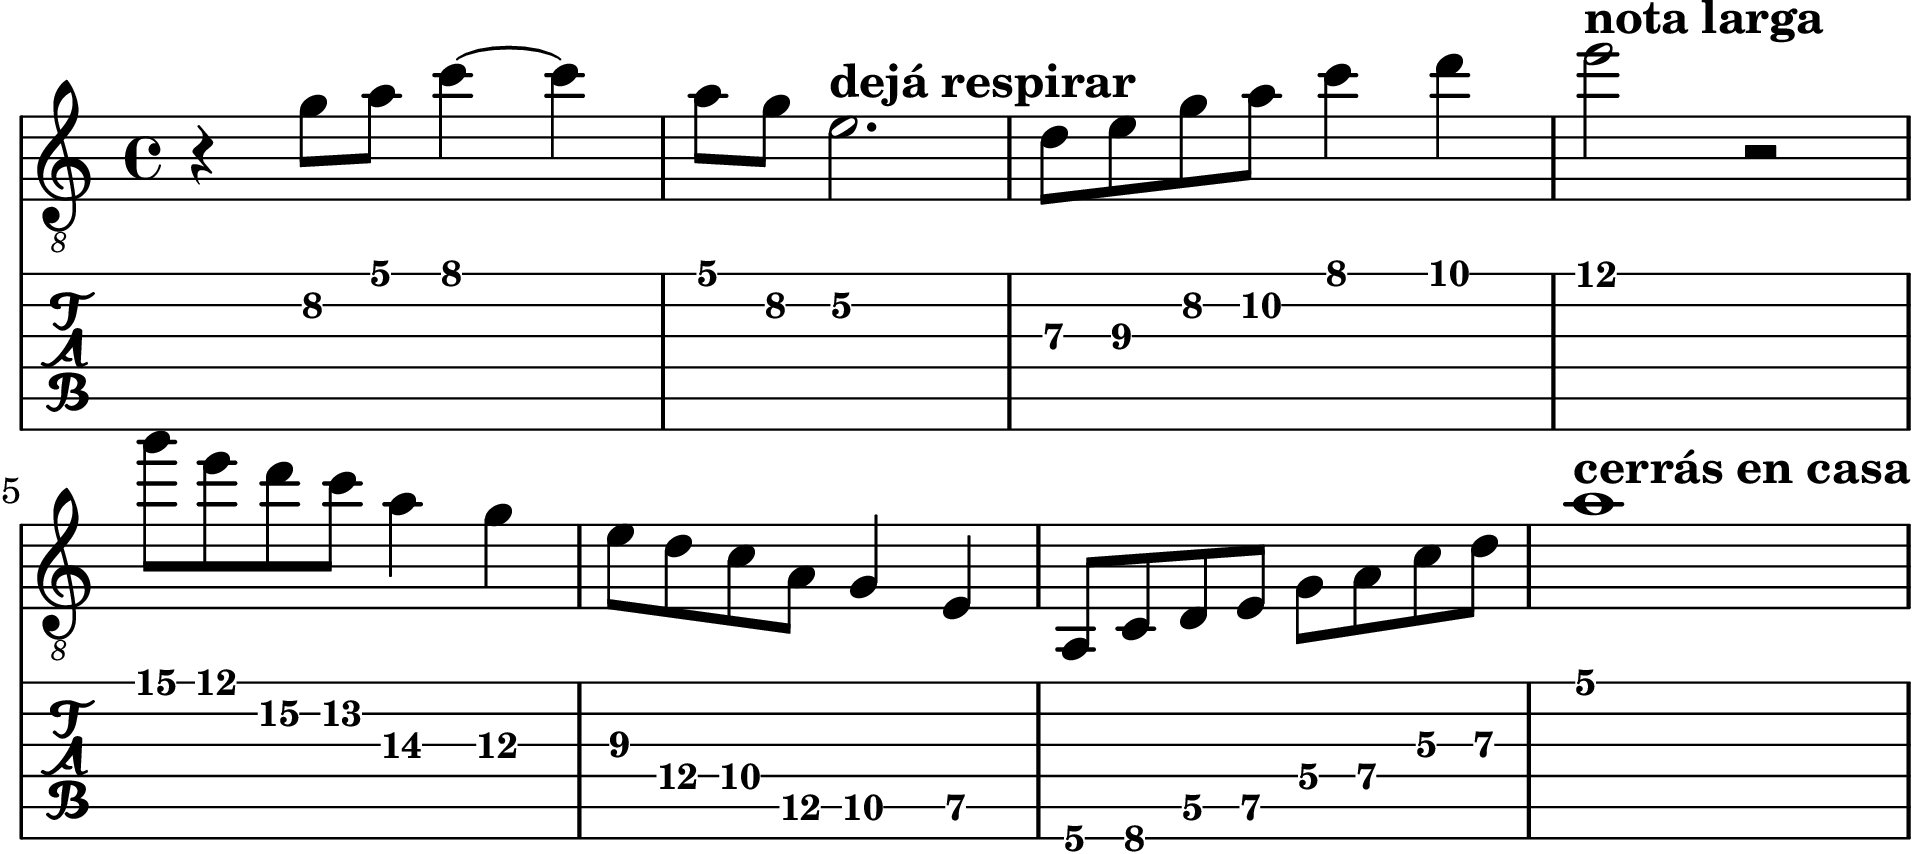
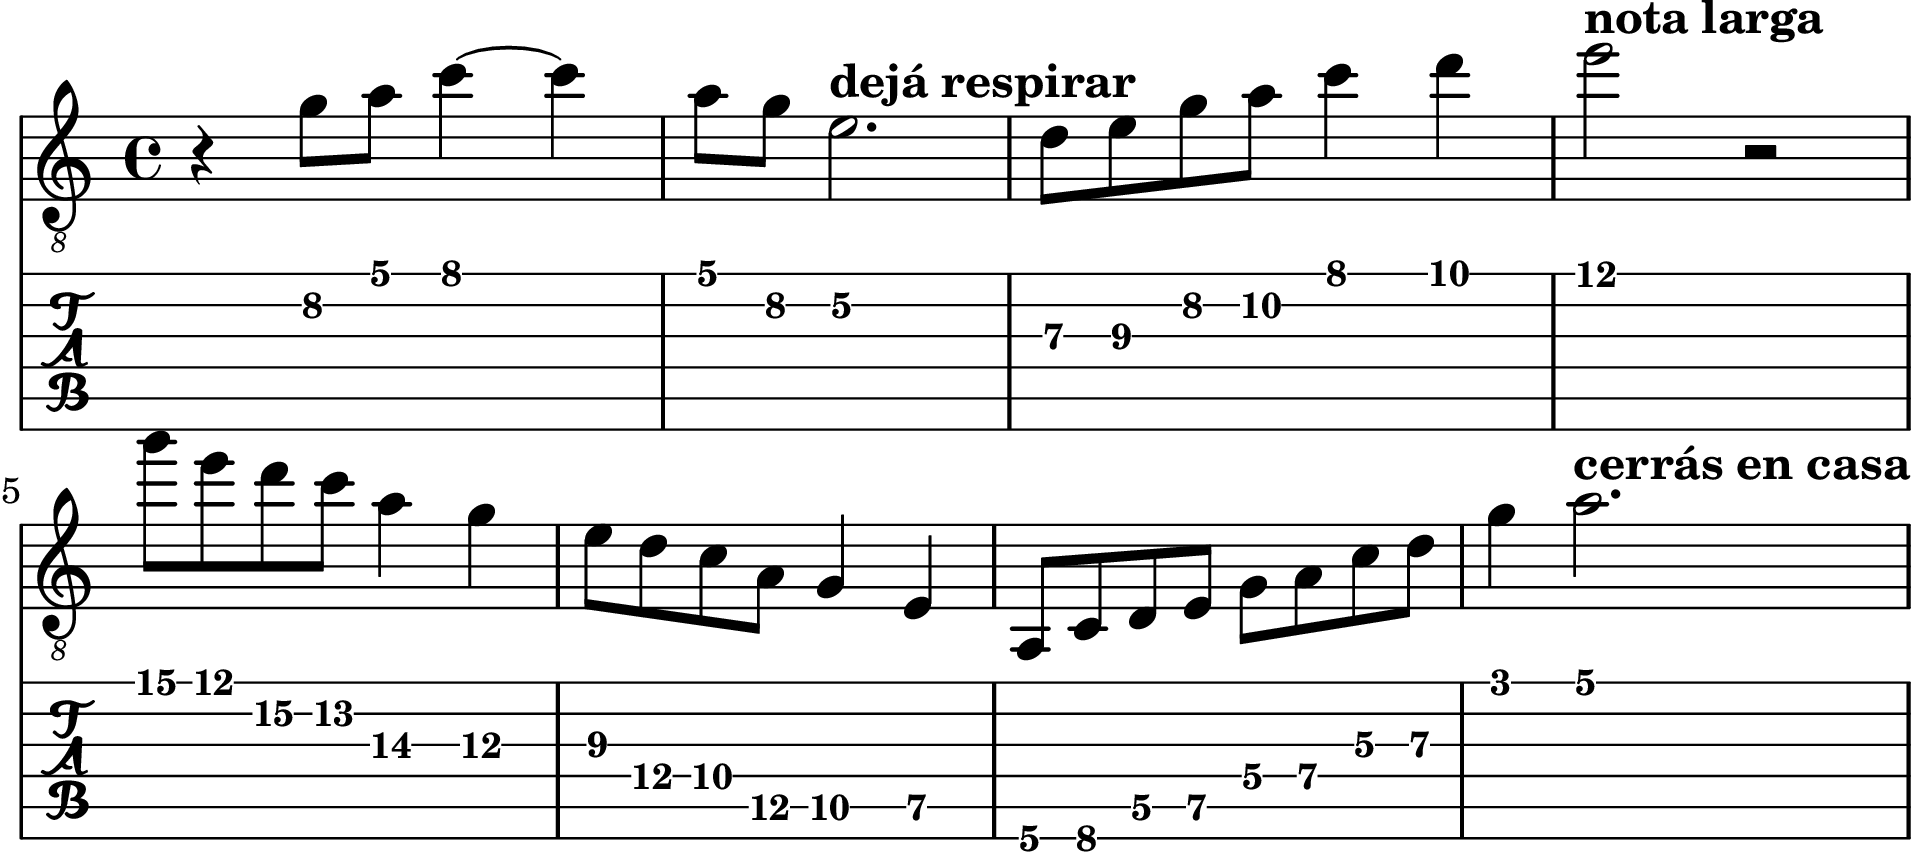
Hito 1: el solo final (ej. 16) no probaba realmente la caja 5 - corregido
Feli reviso el cuadernillo 1 y detecto que el solo final (ej. 16, el
entregable del Mes 1 - "video recorriendo las 5 cajas sin pausa") no pasaba
de verdad por la caja 5. Verificado decodificando nota por nota contra la
fuente: tenia razon.

El ejercicio tocaba los trastes 5,7,8,9,10,12,13,14,15 - nunca 2 ni 3, los
unicos exclusivos de la caja 5. Su unico "contacto" con la caja 5 era el
traste 5, compartido con la caja 1 - la misma ambiguedad estructural que ya
se habia corregido en el Hito 3 (memoria/10 SS30, tercera ronda: ej. 50, 51,
53) pero que nunca se aplico en el Hito 1 porque esa ronda solo audito el
Hito 3.

Arreglo (mismo mecanismo ya validado): el compas final pasa de una redonda
en la tonica (traste 5) a dos notas - primero el traste 3 (SOL, exclusivo de
caja 5) y recien despues la tonica del traste 5, con el label "cerras en
casa" movido a la nota que realmente resuelve.

Verificado: exclusivas pasa de [4] a [4, 5] - ahora hay evidencia real de la
caja 5. Hito 1 completo: 47.1% -> 47.2% fuera de la ventana 5-8 (cambio
despreciable). Escala OK y barcheck de compases OK en las 73 partituras.

No se regenera el PDF final del cuadernillo (regla de memoria/10 SS15) - el
PNG corregido queda listo para mandar a Design con la partitura actualizada.

Documentado en memoria/09-evaluacion-pedagogica.md, quinta ronda.

Claude-Session: https://claude.ai/code/session_01NhNii2Weeqh6Zhj78tdwpb

diff --git a/scripts/gen_scores.py b/scripts/gen_scores.py
@@ -198,7 +198,7 @@ EJ["e16"] = r"""
   g''8\1 e''\1 d''\2 c''\2 a'4\3 g'4\3 |
   e'8\3 d'\4 c'\4 a\5 g4\5 e4\5 |
   a,8\6 c\6 d\5 e\5 g\4 a\4 c'\3 d'\3 |
-  a'1\1 ^\markup{\bold "cerrás en casa"} |
+  g'4\1 a'2.\1 ^\markup{\bold "cerrás en casa"} |
 """
 
 

diff --git a/memoria/09-evaluacion-pedagogica.md b/memoria/09-evaluacion-pedagogica.md
@@ -55,4 +55,28 @@ completo (`MapaCompleto`, reusado del Hito 1) y una consigna de práctica libre 
 en cajas 3/4/5 y repetir el vibrato medido del ej. 27 en las cinco. Convierte el "sorpresa, el solo se
 mueve" en algo anunciado y practicado antes de llegar al entregable.
 
+**QUINTA RONDA (9/9) — Feli: "el solo final del Hito 1 NO pasa por la caja 5".** Objeción sobre el
+**ej. 16**, el entregable del propio Hito 1 (el "Mes 1: video recorriendo las 5 cajas sin pausa" de
+`memoria/01` §3). Verificado decodificando nota por nota contra la fuente: **tenía razón.** El
+ejercicio tocaba los trastes 5,7,8,9,10,12,13,14,15 — nunca 2 ni 3, los únicos exclusivos de la
+caja 5 (`auditar_cajas.py --tabla`). Su único "contacto" con la caja 5 era el traste 5, compartido
+con la caja 1 — la misma ambigüedad estructural que ya se había corregido en el Hito 3 (ver
+`memoria/10` §30, tercera ronda: ej. 50, 51, 53), pero que nunca se aplicó acá porque esa ronda
+solo auditó el Hito 3.
+
+**El arreglo (mismo mecanismo ya validado, mismas dos notas):** el compás final pasó de un whole
+note en la tónica (`a'1\1`, traste 5) a dos notas — primero el traste 3 (SOL, exclusivo de caja 5)
+y recién después la tónica del traste 5, con el label "cerrás en casa" movido a la nota que
+realmente resuelve. Mismo gesto que ej. 50/53: bajar a la caja 5 real antes de cerrar en casa.
+
+**Resultado:** `exclusivas` pasa de `[4]` a `[4, 5]` — ahora hay evidencia real, no ambigua, de la
+caja 5. Hito 1 completo: 47,1% → 47,2% fuera de la ventana 5-8 (cambio despreciable, un solo
+ejercicio tocado). Verificado: escala OK y barcheck de compases OK en las 73 partituras
+(`auditar_cajas.py --compases`). El resto del Hito 1 no se tocó.
+
+> **La lección se repite, van tres veces:** un ejercicio puede decir "cajas: [1,2,3,4,5]" en el
+> reporte crudo y no probar nada de la caja 5 si el único contacto es un traste compartido. La
+> columna `exclusivas` es la que dice la verdad — y hay que mirarla ejercicio por ejercicio, no
+> solo confiar en que una ronda anterior ya "arregló las cajas" en general.
+
 ---
